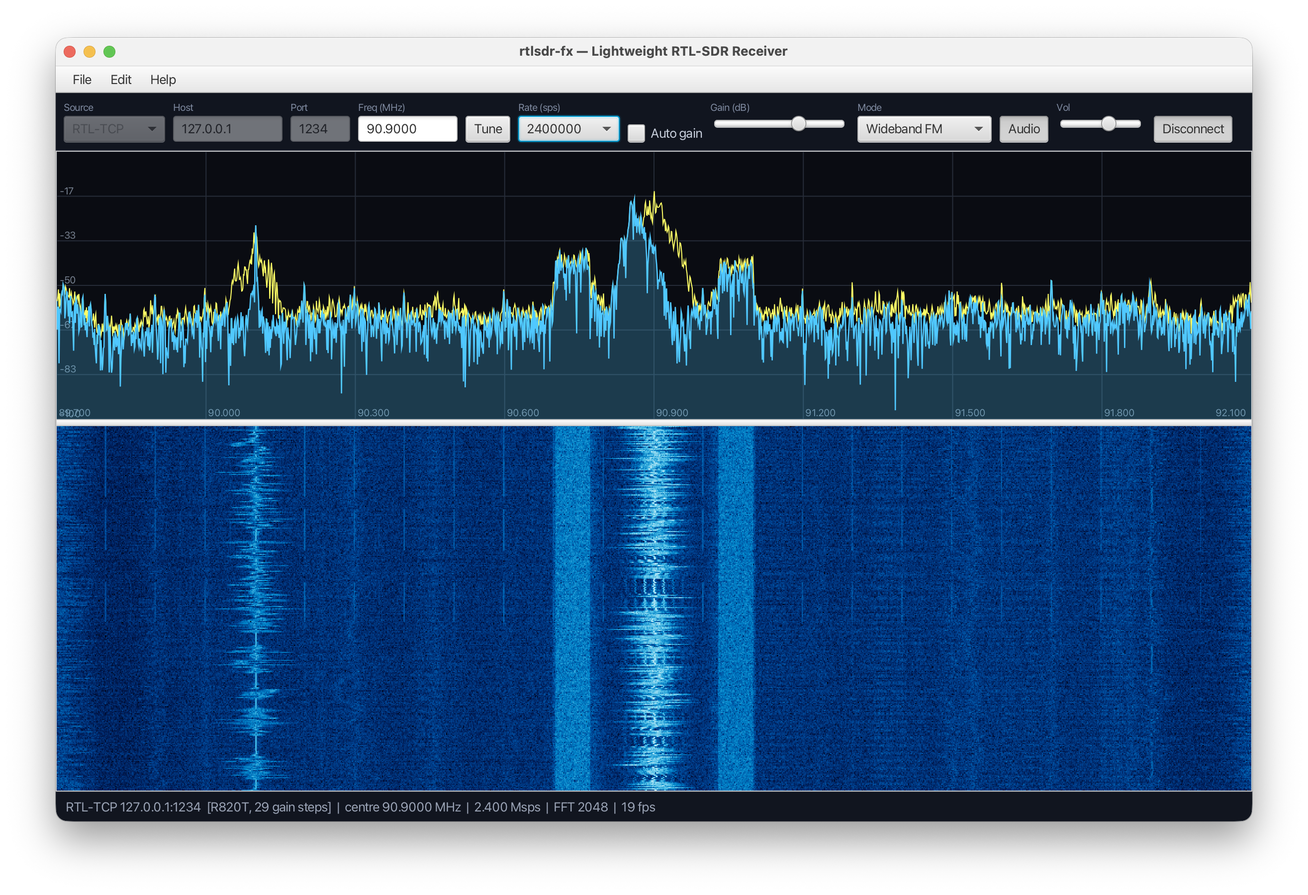
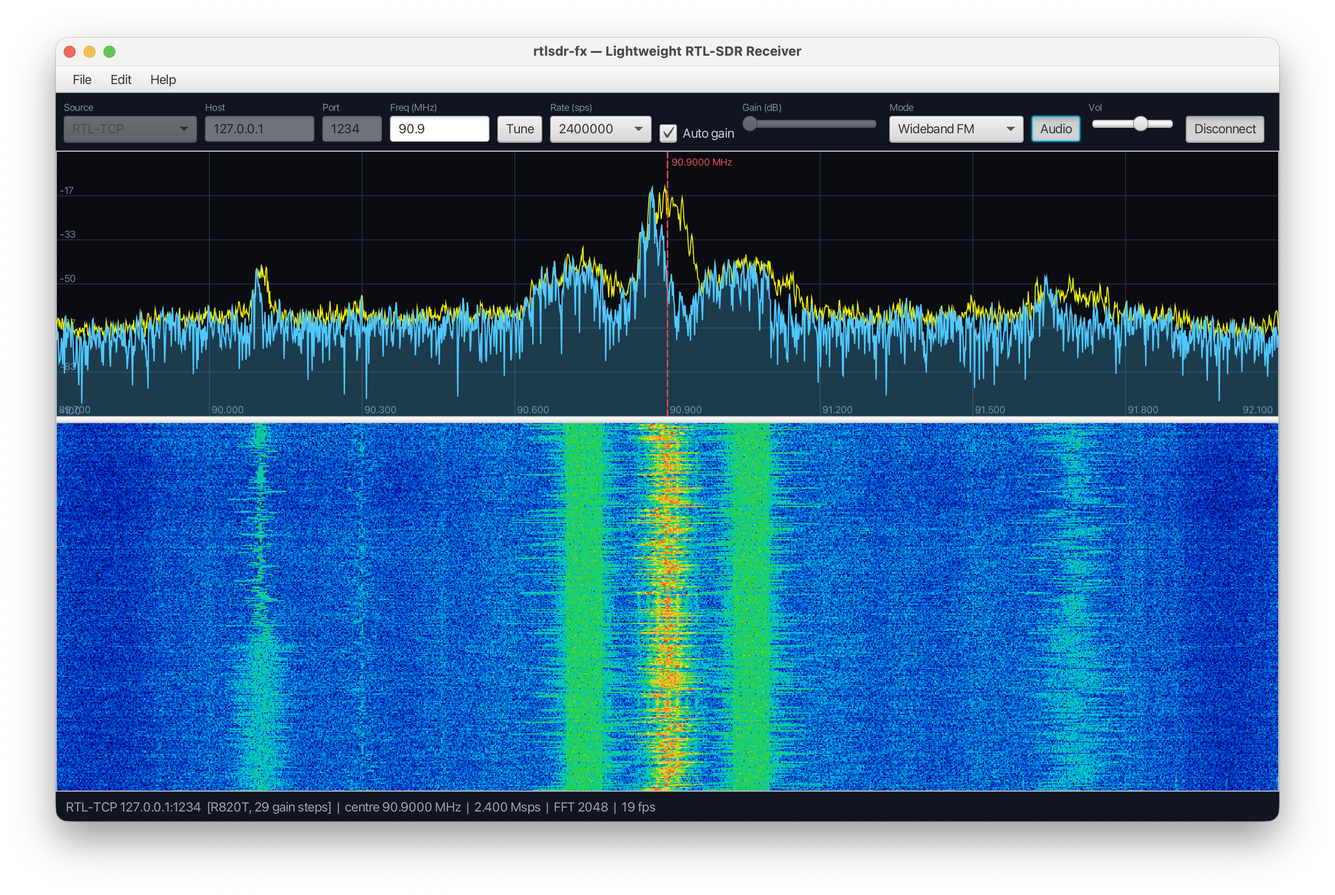
Experiment with Claude Code

diff --git a/src/main/java/org/tauasa/apps/sdr/ui/SpectrumView.java b/src/main/java/org/tauasa/apps/sdr/ui/SpectrumView.java
@@ -1,7 +1,9 @@
 package org.tauasa.apps.sdr.ui;
 
 import java.util.Arrays;
+import java.util.function.Consumer;
 
+import javafx.scene.Cursor;
 import javafx.scene.canvas.Canvas;
 import javafx.scene.canvas.GraphicsContext;
 import javafx.scene.paint.Color;
@@ -9,6 +11,8 @@ import javafx.scene.text.Font;
 
 /** Draws the live power spectrum plus a slowly-decaying peak-hold trace. */
 public final class SpectrumView {
+
+    private static final double HANDLE_RADIUS = 8;
 
     private final Canvas canvas = new Canvas();
     private float[] peak;
@@ -18,10 +22,54 @@ public final class SpectrumView {
     private Color traceColor = Color.rgb(80, 200, 255);
     private Color fillColor = Color.rgb(80, 200, 255, 0.25);
     private Color peakColor = Color.rgb(238, 238, 7);
+    private Color markerColor = Color.rgb(255, 200, 80);
+
+    private boolean dragging = false;
+    private double lineX = -1;
+    private long lastCenterFreq;
+    private int lastSampleRate;
+    private Consumer<Long> onFrequencyChanged;
 
     public SpectrumView(double minDb, double maxDb) {
         this.minDb = minDb;
         this.maxDb = maxDb;
+        installDragHandlers();
+    }
+
+    public void setOnFrequencyChanged(Consumer<Long> cb) {
+        this.onFrequencyChanged = cb;
+    }
+
+    private void installDragHandlers() {
+        canvas.setOnMouseMoved(e -> {
+            double cx = dragging ? lineX : canvas.getWidth() / 2.0;
+            canvas.setCursor(Math.abs(e.getX() - cx) <= HANDLE_RADIUS
+                    ? Cursor.H_RESIZE : Cursor.DEFAULT);
+        });
+        canvas.setOnMousePressed(e -> {
+            double cx = canvas.getWidth() / 2.0;
+            if (Math.abs(e.getX() - cx) <= HANDLE_RADIUS) {
+                dragging = true;
+                lineX = e.getX();
+                canvas.setCursor(Cursor.H_RESIZE);
+            }
+        });
+        canvas.setOnMouseDragged(e -> {
+            if (dragging) {
+                lineX = Math.max(0, Math.min(canvas.getWidth(), e.getX()));
+            }
+        });
+        canvas.setOnMouseReleased(e -> {
+            if (dragging) {
+                dragging = false;
+                canvas.setCursor(Cursor.DEFAULT);
+                if (onFrequencyChanged != null && lastSampleRate > 0) {
+                    double offset = (lineX / canvas.getWidth() - 0.5) * lastSampleRate;
+                    onFrequencyChanged.accept(lastCenterFreq + Math.round(offset));
+                }
+                lineX = -1;
+            }
+        });
     }
 
     public Canvas getCanvas() {
@@ -55,7 +103,19 @@ public final class SpectrumView {
         }
     }
 
+    public Color getMarkerColor() {
+        return markerColor;
+    }
+
+    public void setMarkerColor(Color c) {
+        if (c != null) {
+            this.markerColor = c;
+        }
+    }
+
     public void render(float[] power, long centerFreq, int sampleRate) {
+        lastCenterFreq = centerFreq;
+        lastSampleRate = sampleRate;
         double w = canvas.getWidth();
         double h = canvas.getHeight();
         GraphicsContext g = canvas.getGraphicsContext2D();
@@ -136,6 +196,20 @@ public final class SpectrumView {
             }
         }
         g.stroke();
+
+        // draggable centre-frequency marker
+        double lx = dragging ? lineX : w / 2.0;
+        g.setStroke(markerColor);
+        g.setLineWidth(1.5);
+        g.setLineDashes(6, 4);
+        g.strokeLine(lx, 0, lx, h);
+        g.setLineDashes();
+
+        double freqAtLine = centerFreq + (lx / w - 0.5) * sampleRate;
+        g.setFill(markerColor);
+        g.setFont(Font.font(10));
+        double labelX = (lx + 4 + 60 < w) ? lx + 4 : lx - 64;
+        g.fillText(String.format("%.4f MHz", freqAtLine / 1e6), labelX, 14);
     }
 
     private double dbToY(double db, double h) {

diff --git a/src/main/java/org/tauasa/apps/sdr/ui/MainController.java b/src/main/java/org/tauasa/apps/sdr/ui/MainController.java
@@ -89,6 +89,10 @@ public final class MainController {
         this.hostServices = event.getHostServices();
 
         spectrumView = new SpectrumView(props.getMinDb(), props.getMaxDb());
+        spectrumView.setOnFrequencyChanged(freq -> {
+            sdr.setCenterFrequency(freq);
+            freqField.setText(String.format("%.4f", freq / 1e6));
+        });
         waterfallView = new WaterfallView(sdr.fftSize(), props.getWaterfallHeight(),
                 props.getMinDb(), props.getMaxDb());
 
@@ -406,6 +410,9 @@ public final class MainController {
         ColorPicker peak = new ColorPicker(spectrumView.getPeakColor());
         peak.valueProperty().addListener((o, a, b) -> spectrumView.setPeakColor(b));
 
+        ColorPicker marker = new ColorPicker(spectrumView.getMarkerColor());
+        marker.valueProperty().addListener((o, a, b) -> spectrumView.setMarkerColor(b));
+
         // Waterfall palette + live preview
         ComboBox<Palette> palette = new ComboBox<>();
         palette.getItems().addAll(Palette.all());
@@ -449,6 +456,7 @@ public final class MainController {
         reset.setOnAction(e -> {
             trace.setValue(Color.rgb(80, 200, 255));
             peak.setValue(Color.rgb(227, 243, 10));
+            marker.setValue(Color.rgb(255, 200, 80));
             palette.getSelectionModel().select(Palette.CLASSIC);
             waterfallView.setPalette(Palette.CLASSIC);
             drawPalettePreview(preview, Palette.CLASSIC);
@@ -464,6 +472,7 @@ public final class MainController {
                 header,
                 settingRow("Spectrum trace", trace),
                 settingRow("Spectrum peak hold", peak),
+                settingRow("Frequency marker", marker),
                 settingRow("Waterfall palette", waterfallBox),
                 cwHeader,
                 settingRow("CW pitch", new HBox(8, cwPitch, cwPitchVal)),

diff --git a/CLAUDE.md b/CLAUDE.md
@@ -1,0 +1,55 @@
+# CLAUDE.md
+
+This file provides guidance to Claude Code (claude.ai/code) when working with code in this repository.
+
+## What this is
+
+A lightweight RTL-SDR receiver GUI: real-time FFT spectrum + scrolling waterfall, audio demodulation (WFM/NFM/AM/CW), and live tuning. Connects to a real dongle via `rtl_tcp` or runs in simulated mode with no hardware.
+
+## Commands
+
+```bash
+mvn javafx:run              # run from source (no hardware needed — starts in simulated mode)
+./run.sh                    # convenience wrapper around the above
+mvn clean package           # build fat jar → target/rtlsdr-fx-*.jar
+mvn test                    # full test suite (JUnit 5)
+mvn test -Dtest=FftTest     # single test class
+```
+
+## Architecture
+
+**Spring Boot + JavaFX bridge** (Josh Long pattern):
+- `SdrApplication.main()` → `Application.launch(JavaFxApplication)`
+- `JavaFxApplication.init()` boots the Spring context (headless=false), `.start()` publishes `StageReadyEvent`
+- `MainController` (@Component) listens for the event and builds the entire UI programmatically (no FXML)
+
+**Data flow:**
+```
+SignalSource (RtlTcpSource | SimulatedSource | SimulatedCwSource)
+  └─ raw interleaved IQ float[] blocks
+SdrService (@Service, background thread)
+  ├─ audio path:   IQ → Demodulator → AudioPlayer (javax.sound.sampled, 48 kHz PCM)
+  └─ display path: IQ → SpectrumProcessor (Hann window → radix-2 FFT → |·|² → dB → fftshift)
+                       → AtomicReference<SpectrumFrame>
+MainController (FX thread)
+  └─ AnimationTimer → SpectrumView.draw() + WaterfallView.pushRow()
+```
+
+**Threading model:** `SdrService` runs its DSP loop on a daemon thread; all UI mutations happen on the JavaFX Application Thread via `Platform.runLater`. The latest `SpectrumFrame` is handed off through `AtomicReference` — no blocking between DSP and render.
+
+**Key packages:**
+
+| Package | Contents |
+|---------|----------|
+| `sdr` (root) | `SdrApplication`, `JavaFxApplication`, `StageReadyEvent` |
+| `.dsp` | `Fft`, `Window`, `SpectrumProcessor`, `Demodulator`, `Biquad`, FIR decimators |
+| `.audio` | `AudioPlayer` |
+| `.source` | `SignalSource` interface + three implementations |
+| `.rtl` | `RtlCommand` opcodes, `TunerType` enums (rtl_tcp protocol) |
+| `.service` | `SdrService` (orchestrator), `SpectrumFrame` (record) |
+| `.ui` | `MainController`, `SpectrumView`, `WaterfallView`, `Palette` |
+| `.config` | `SdrProperties` (@ConfigurationProperties prefix `sdr`) |
+
+**Adding a signal source:** implement `SignalSource`, register it in `MainController` where the source selector is built — the switch statement in `SdrService` dispatches to it.
+
+**Configuration** lives in `src/main/resources/application.yml` under the `sdr:` prefix. All properties bind to `SdrProperties`. Runtime controls (frequency, gain, mode, volume) update the running service directly; no restart needed.
